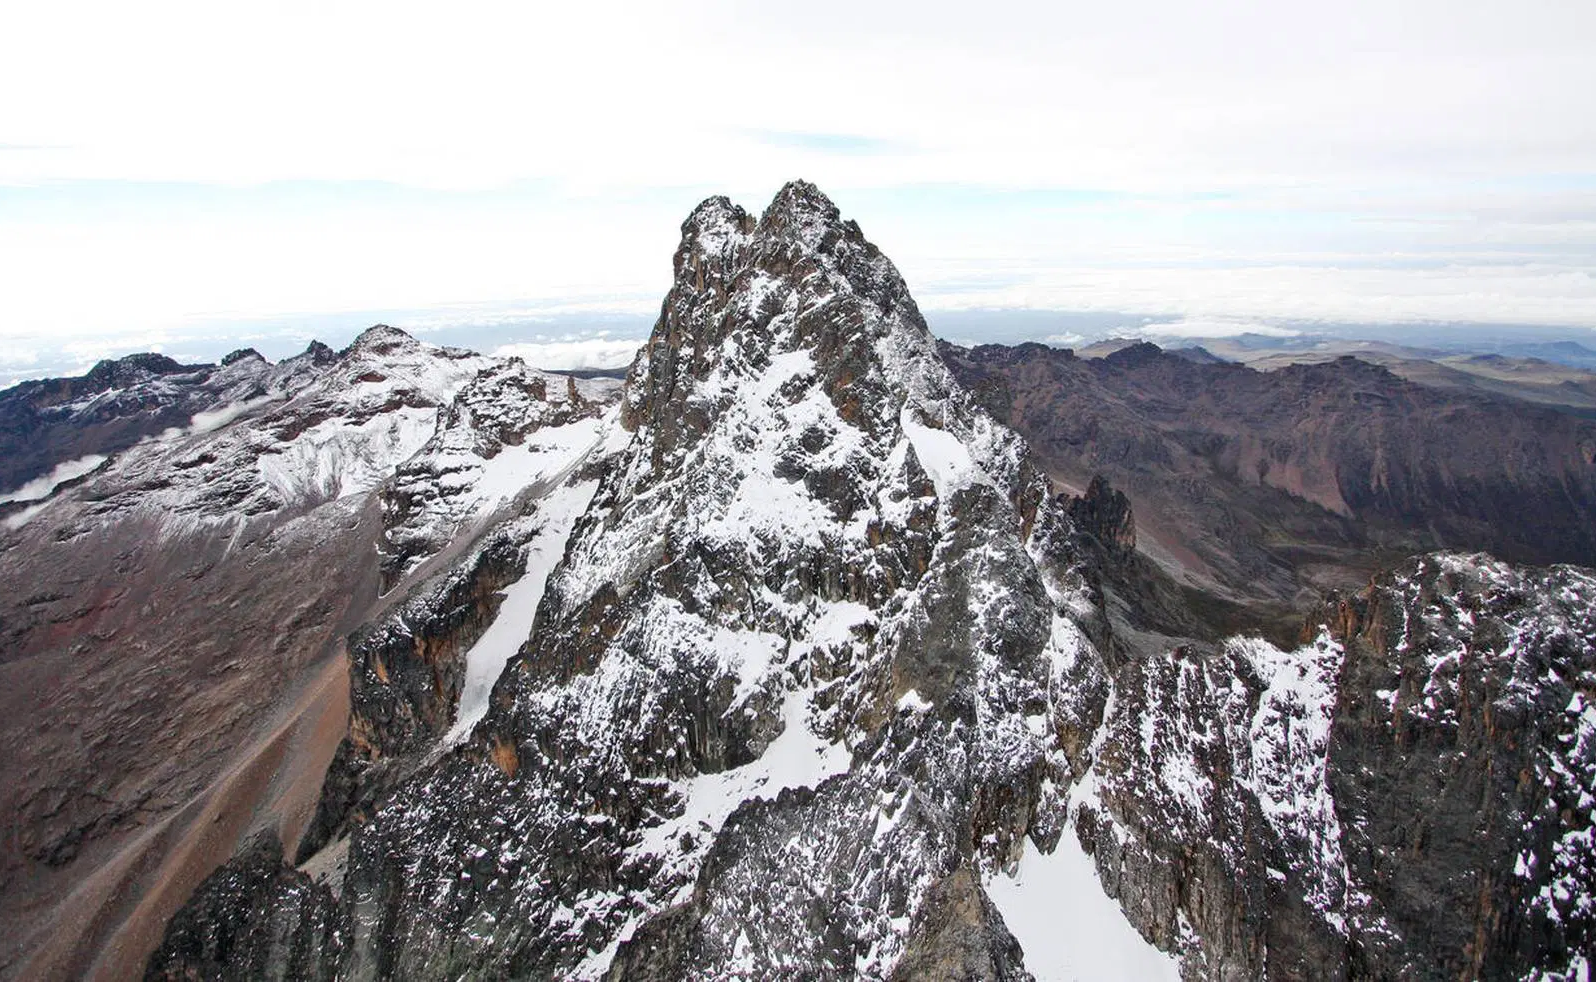
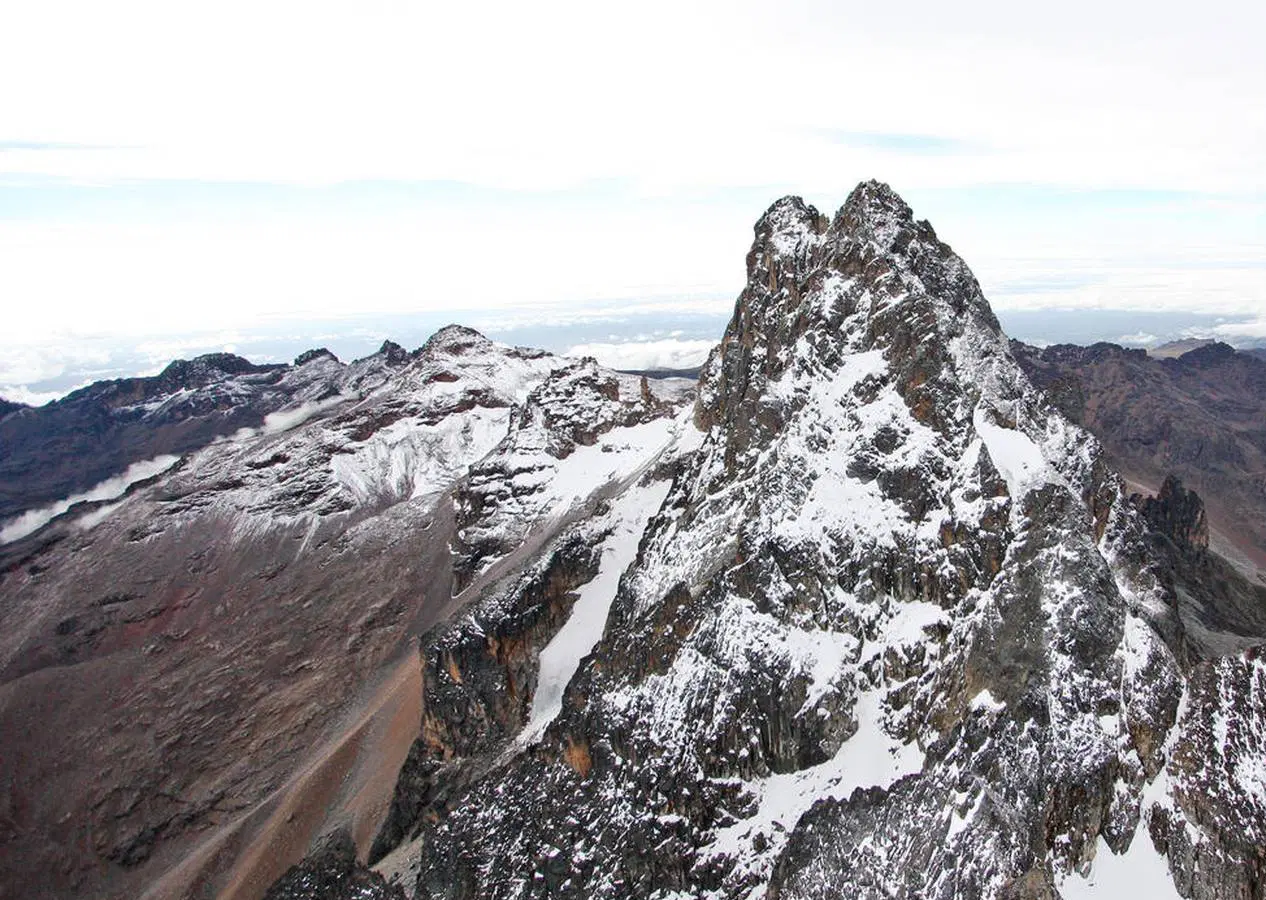
resized the images

diff --git a/index.html b/index.html
@@ -81,10 +81,10 @@
               <div class="card-body">
                 <h4>Maasai Mara</h4>
                 <p>
-                  The Maasai Mara is a renowned wildlife reserve in Kenya, famed
-                  for its spectacular scenery and diverse array of wildlife,
-                  including the annual migration of millions of wildebeest and
-                  zebra.
+                  The Maasai Mara is a renowned wildlife reserve, famed for its
+                  spectacular scenery and diverse array of wildlife, including
+                  the annual migration of millions of wildebeest and zebra,
+                  highlighting nature's beauty and resilience.
                 </p>
                 <h5>Common Rating:</h5>
                 <p>★★★★☆ 4.7</p>
